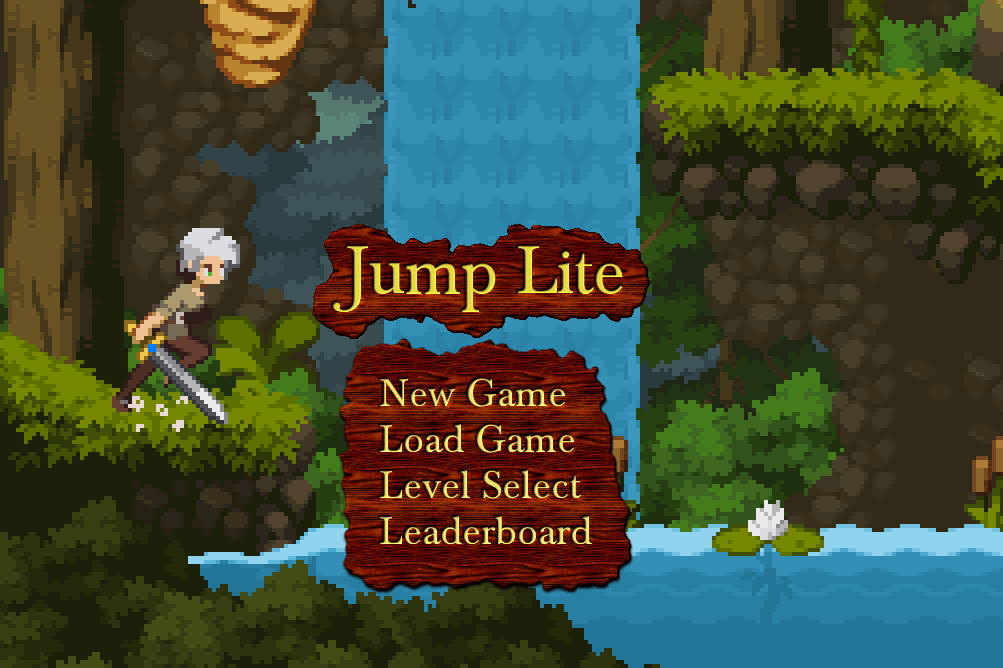
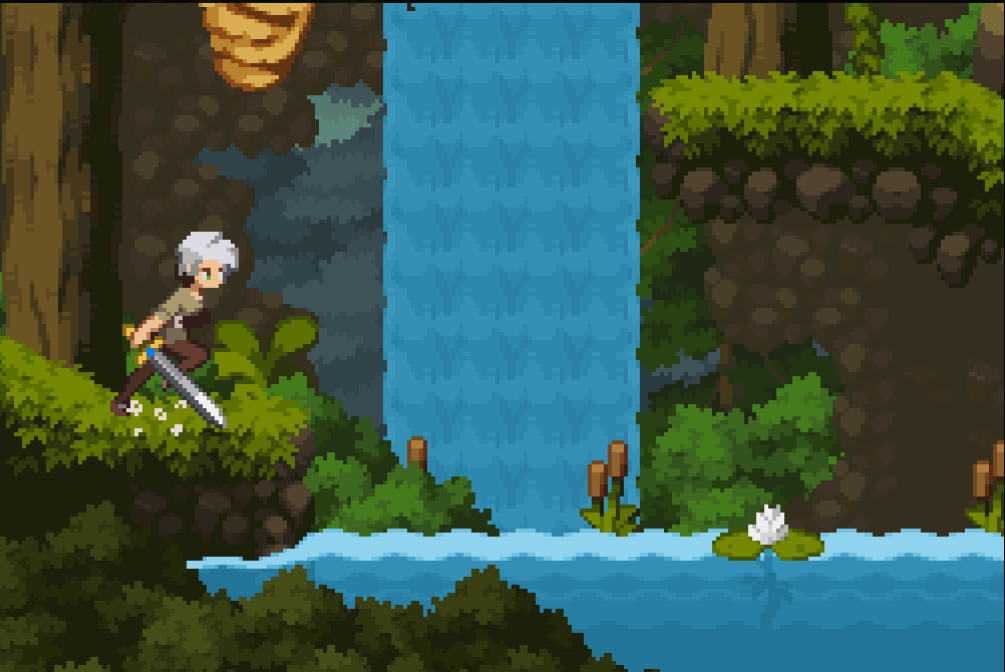
Add files via upload

diff --git a/src/js/stage/title.js b/src/js/stage/title.js
@@ -2,11 +2,11 @@ import { Stage, event, Sprite, game, loader, input, state } from 'melonjs';
 
 class ButtonEntity extends Sprite {
     constructor(x, y) {
-        super(x, y, {image: "player_run01", framewidth: 178, frameheight: 140});
+        super(x, y, {image: "Background", framewidth: 178, frameheight: 140});
         
         this.anchorPoint.set(0,0);
 
-        input.registerPointerEvent("pointerdown", this, this.pointerDown.bind(this));
+        input.registerPointerEvent("pointerdown", game.viewport, this.pointerDown.bind(this));
     }
 
     pointerDown () {
